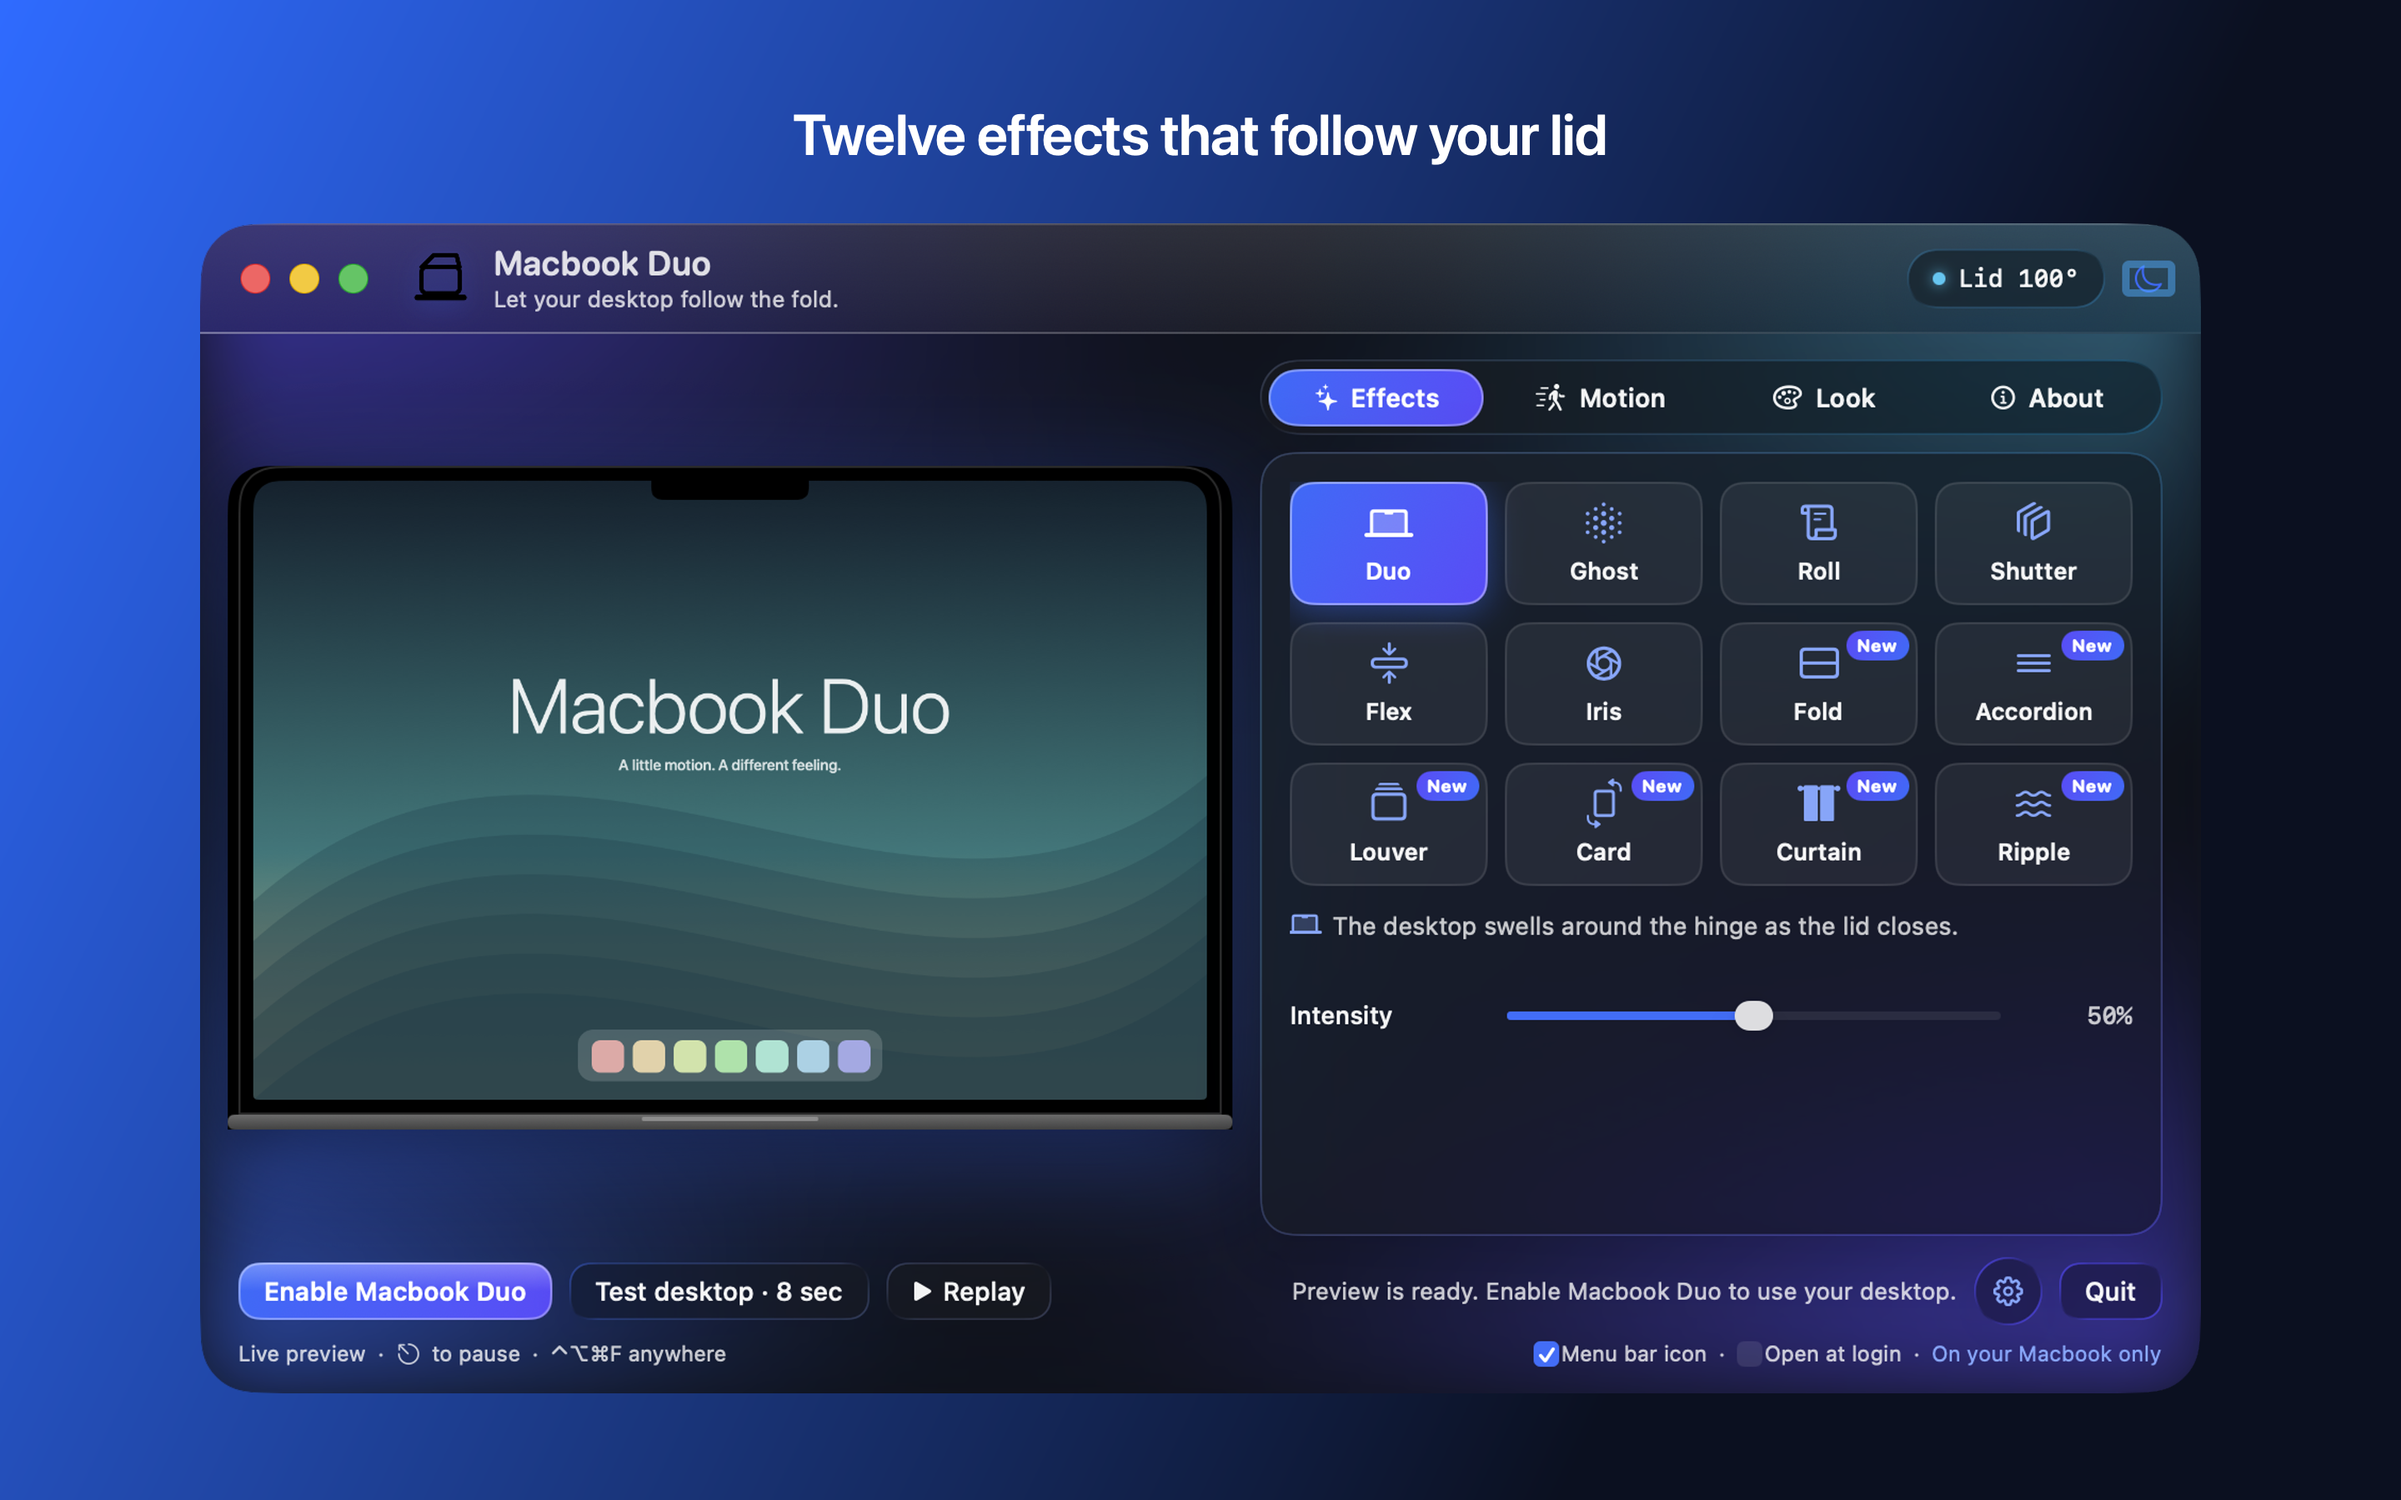
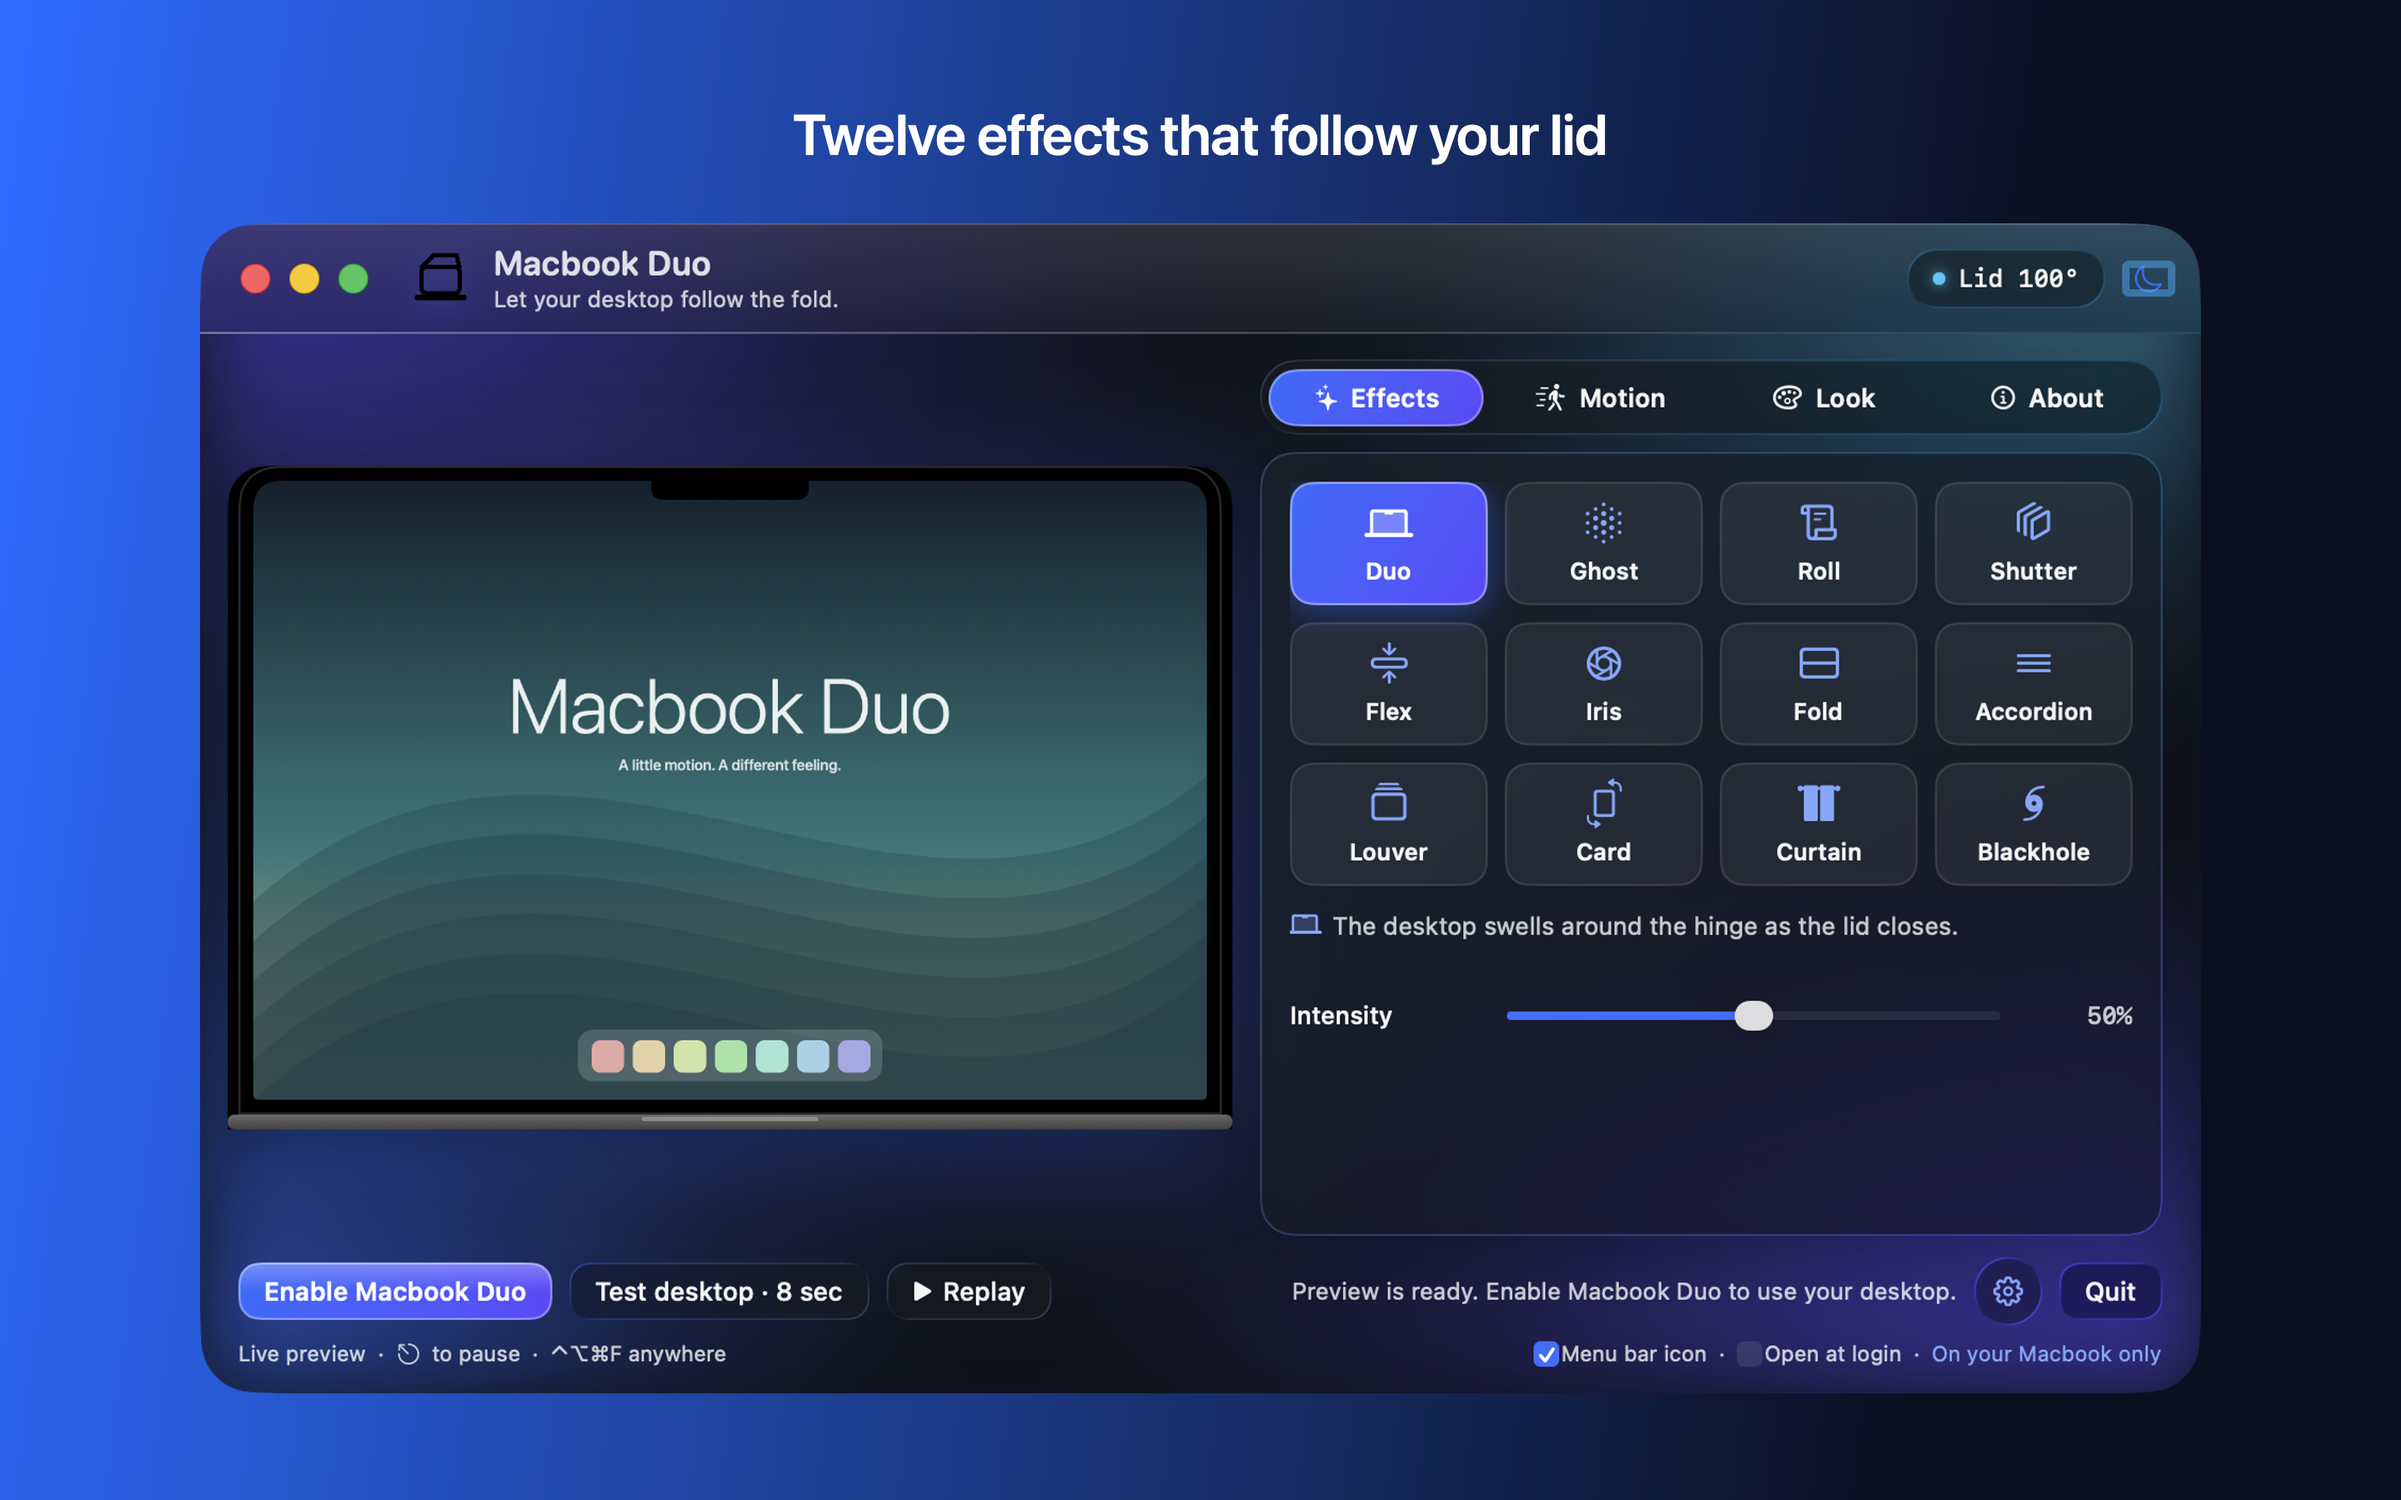
feat: rename Ripple to Blackhole and drop the New badges
The effect keeps its shader, persisted identifier and media files; only
the title, symbol and summary change in all four languages. Effect tiles
no longer carry a New badge.

diff --git a/docs/index.html b/docs/index.html
@@ -88,7 +88,7 @@
       <article class="glass"><span class="effect-index">09 / LOUVER <span class="badge">NEW</span></span><video src="assets/louver.mp4" poster="assets/louver.jpg" loop muted playsinline controls preload="none" aria-label="Generated Louver effect closing and reopening"></video><h3>Slats tilt.<br>Blinds close.</h3><p>Horizontal slats tilt and overlap like closing window blinds.</p></article>
       <article class="glass"><span class="effect-index">10 / CARD <span class="badge">NEW</span></span><video src="assets/card.mp4" poster="assets/card.jpg" loop muted playsinline controls preload="none" aria-label="Generated Card effect closing and reopening"></video><h3>One rigid card.<br>Tipping back.</h3><p>The whole desktop tips back as one rigid card in perspective.</p></article>
       <article class="glass"><span class="effect-index">11 / CURTAIN <span class="badge">NEW</span></span><video src="assets/curtain.mp4" poster="assets/curtain.jpg" loop muted playsinline controls preload="none" aria-label="Generated Curtain effect closing and reopening"></video><h3>Drapes draw.<br>Settle at the hinge.</h3><p>Drapes draw together from both sides and settle at the hinge.</p></article>
-      <article class="glass"><span class="effect-index">12 / RIPPLE <span class="badge">NEW</span></span><video src="assets/ripple.mp4" poster="assets/ripple.jpg" loop muted playsinline controls preload="none" aria-label="Generated Ripple effect closing and reopening"></video><h3>Rings spread.<br>The desktop drains.</h3><p>Liquid rings spread from the hinge and the desktop drains into it.</p></article>
+      <article class="glass"><span class="effect-index">12 / RIPPLE <span class="badge">NEW</span></span><video src="assets/ripple.mp4" poster="assets/ripple.jpg" loop muted playsinline controls preload="none" aria-label="Generated Blackhole effect closing and reopening"></video><h3>Rings spread.<br>The desktop drains.</h3><p>The desktop swirls into a black hole opening at the hinge.</p></article>
     </div>
   </section>
 

diff --git a/Sources/FoldCore/Effects/FoldEffect.swift b/Sources/FoldCore/Effects/FoldEffect.swift
@@ -54,7 +54,7 @@ public enum FoldEffect: String, CaseIterable, Sendable, Identifiable {
         case .louver: return "Louver"
         case .card: return "Card"
         case .curtain: return "Curtain"
-        case .ripple: return "Ripple"
+        case .ripple: return "Blackhole"
         }
     }
 
@@ -71,7 +71,7 @@ public enum FoldEffect: String, CaseIterable, Sendable, Identifiable {
         case .louver: return "rectangle.stack"
         case .card: return "rectangle.portrait.rotate"
         case .curtain: return "curtains.closed"
-        case .ripple: return "water.waves"
+        case .ripple: return "hurricane"
         }
     }
 
@@ -88,7 +88,7 @@ public enum FoldEffect: String, CaseIterable, Sendable, Identifiable {
         case .louver: return "Horizontal slats tilt and overlap like closing window blinds."
         case .card: return "The whole desktop tips back as one rigid card in perspective."
         case .curtain: return "Drapes draw together from both sides and settle at the hinge."
-        case .ripple: return "Liquid rings spread from the hinge and the desktop drains into it."
+        case .ripple: return "The desktop swirls into a black hole opening at the hinge."
         }
     }
 

diff --git a/Sources/MacbookDuo/UI/Tabs/EffectsTab.swift b/Sources/MacbookDuo/UI/Tabs/EffectsTab.swift
@@ -1,7 +1,7 @@
 import SwiftUI
 import FoldCore
 
-/// Twelve glass tiles, the selected effect's summary, and its options.
+/// Twelve tiles, the selected effect's summary, and its options.
 struct EffectsTab: View {
     @ObservedObject var model: AppModel
     @Environment(\.colorScheme) private var scheme
@@ -65,9 +65,6 @@ private struct EffectTile: View {
                     .lineLimit(1).minimumScaleFactor(0.85)
             }
             .frame(maxWidth:.infinity).frame(height:58)
-            .overlay(alignment:.topTrailing) {
-                if effect.isExpansion { GlassBadge(text:L10n.text("New")).padding(4) }
-            }
             .background {
                 if selected {
                     RoundedRectangle(cornerRadius:11,style:.continuous)

diff --git a/Sources/MacbookDuo/UI/Glass/GlassCard.swift b/Sources/MacbookDuo/UI/Glass/GlassCard.swift
@@ -25,20 +25,6 @@ struct GlassPill<Content: View>: View {
     }
 }
 
-/// The "New" marker on expansion effects.
-struct GlassBadge: View {
-    let text: String
-    var body: some View {
-        Text(text)
-            .font(.system(size:8.5,weight:.bold,design:.rounded))
-            .foregroundStyle(.white)
-            .padding(.horizontal,5).padding(.vertical,2)
-            .background(LinearGradient(colors:[GlassPalette.indigo,GlassPalette.electricBlue],
-                                       startPoint:.topLeading,endPoint:.bottomTrailing),in:Capsule())
-            .accessibilityHidden(true)
-    }
-}
-
 /// A small caption in the contrast-checked secondary tone.
 struct GlassCaption: View {
     let text: String

diff --git a/README.md b/README.md
@@ -35,7 +35,7 @@ Macbook Duo reads the lid-angle sensor built into recent MacBooks, captures the 
 
 ## Twelve effects
 
-Duo is the default. The six effects marked **New** were added in 1.0.0.
+Duo is the default. Fold, Accordion, Louver, Card, Curtain and Blackhole were added in 1.0.0.
 
 | Effect | What it feels like |
 |---|---|
@@ -50,7 +50,7 @@ Duo is the default. The six effects marked **New** were added in 1.0.0.
 | **Louver** · New | Horizontal slats tilt and overlap like closing window blinds. |
 | **Card** · New | The whole desktop tips back as one rigid card in perspective. |
 | **Curtain** · New | Drapes draw together from both sides and settle at the hinge. |
-| **Ripple** · New | Liquid rings spread from the hinge and the desktop drains into it. |
+| **Blackhole** · New | The desktop swirls into a black hole opening at the hinge. |
 
 Shutter, Accordion, Louver and Curtain divide the display into a configurable number of segments.
 
@@ -62,9 +62,9 @@ Shutter, Accordion, Louver and Curtain divide the display into a configurable nu
 |---|---|---|---|
 | ![Flex effect preview](docs/assets/flex.gif) | ![Iris effect preview](docs/assets/iris.gif) | ![Fold effect preview](docs/assets/fold.gif) | ![Accordion effect preview](docs/assets/accordion.gif) |
 
-| Louver | Card | Curtain | Ripple |
+| Louver | Card | Curtain | Blackhole |
 |---|---|---|---|
-| ![Louver effect preview](docs/assets/louver.gif) | ![Card effect preview](docs/assets/card.gif) | ![Curtain effect preview](docs/assets/curtain.gif) | ![Ripple effect preview](docs/assets/ripple.gif) |
+| ![Louver effect preview](docs/assets/louver.gif) | ![Card effect preview](docs/assets/card.gif) | ![Curtain effect preview](docs/assets/curtain.gif) | ![Blackhole effect preview](docs/assets/ripple.gif) |
 
 Previews are generated artwork. Your real desktop never leaves your Mac.
 
@@ -76,7 +76,7 @@ Every control lives in the settings window. **Reset to defaults** restores the o
 
 | Control | Range | Default | Notes |
 |---|---|---|---|
-| Effect | Duo, Ghost, Roll, Shutter, Flex, Iris, Fold, Accordion, Louver, Card, Curtain, Ripple | Duo | Persisted across launches. |
+| Effect | Duo, Ghost, Roll, Shutter, Flex, Iris, Fold, Accordion, Louver, Card, Curtain, Blackhole | Duo | Persisted across launches. |
 | Intensity | 0–100% | 50% | Exaggerates each effect's geometry. 50% reproduces the original tuning. |
 | Segments | 2–8 | 4 | Panel, pleat, slat or drape count for Shutter, Accordion, Louver and Curtain. |
 | Curve | Smooth, Gentle, Linear, Brisk | Smooth | How fold progress advances between open and closed. Smooth eases in and out; Gentle starts slowly; Linear tracks the lid one-to-one; Brisk responds immediately, then settles. |

diff --git a/docs/appstore/listing.md b/docs/appstore/listing.md
@@ -49,7 +49,7 @@ Accordion: pleats zig-zag and gather toward the hinge like a paper fan.
 Louver: horizontal slats tilt and overlap like closing window blinds.
 Card: the whole desktop tips back as one rigid card in perspective.
 Curtain: drapes draw together from both sides and settle at the hinge.
-Ripple: liquid rings spread from the hinge and the desktop drains into it.
+Blackhole: liquid rings spread from the hinge and the desktop drains into it.
 
 MAKE IT YOURS
 Every control lives in one settings window with a live MacBook-shaped preview. Intensity exaggerates each effect's geometry. Segments sets the panel, pleat, slat or drape count for Shutter, Accordion, Louver and Curtain. Curve chooses how the effect advances between open and closed: Smooth, Gentle, Linear or Brisk. Response and Clear duration tune the timing, and Perspective, Softness and Shadow shape the look. Clears at sets the lid angle at which the desktop is fully clear, and Clear when the lid is still decides how long a resting lid waits before the effect fades. Reset to defaults restores the original tuning in one click. Turn off Follow my lid to drive the preview by hand, or press Replay to watch any effect without touching the lid.
@@ -75,7 +75,7 @@ lid,hinge,fold,desktop,animation,effect,metal,menu bar,screen,wallpaper,motion,l
 ### What's New in This Version
 
 ```
-First Mac App Store release. Twelve lid-following effects (Duo, Ghost, Roll, Shutter, Flex, Iris, Fold, Accordion, Louver, Card, Curtain and Ripple), per-effect tuning, a live MacBook-shaped preview, light, dark or system appearance, and four languages. Sandboxed, private, and free of accounts, analytics and network access.
+First Mac App Store release. Twelve lid-following effects (Duo, Ghost, Roll, Shutter, Flex, Iris, Fold, Accordion, Louver, Card, Curtain and Blackhole), per-effect tuning, a live MacBook-shaped preview, light, dark or system appearance, and four languages. Sandboxed, private, and free of accounts, analytics and network access.
 ```
 
 ## Age rating (4+)

diff --git a/CHANGELOG.md b/CHANGELOG.md
@@ -3,7 +3,7 @@
 ## 1.0.0 · 12 September 2026
 
 - **Macbook Duo.** Rebranded as Macbook Duo by Shivam Chopra, with the bundle identifier `com.shivamchopra.macbookduo` and a new app icon and menu-bar mark rendered from `scripts/make-icon.swift`.
-- **Six new effects.** Fold, Accordion, Louver, Card, Curtain and Ripple join Duo, Ghost, Roll, Shutter, Flex and Iris, for twelve in total. Duo remains the default.
+- **Six new effects.** Fold, Accordion, Louver, Card, Curtain and Blackhole join Duo, Ghost, Roll, Shutter, Flex and Iris, for twelve in total. Duo remains the default.
 - **Per-effect options.** Intensity exaggerates each effect's geometry (50% reproduces the original tuning); Segments sets the panel, pleat, slat or drape count for Shutter, Accordion, Louver and Curtain (2–8); Curve chooses Smooth, Gentle, Linear or Brisk progress; Response tunes motion smoothing from 20 to 120 ms; Clear duration sets the return-to-clear animation from 0.3 to 1.2 s.
 - **Existing controls kept.** Perspective, Softness, Shadow, Clears at, Clear when the lid is still, Follow my lid and Preview angle carry over unchanged, and **Reset to defaults** restores the original tuning in one click.
 - **Redesigned settings window.** A Liquid Glass design language with four sections (Effects, Motion, Look, About), a live MacBook-shaped preview, and light, dark or system appearance.
